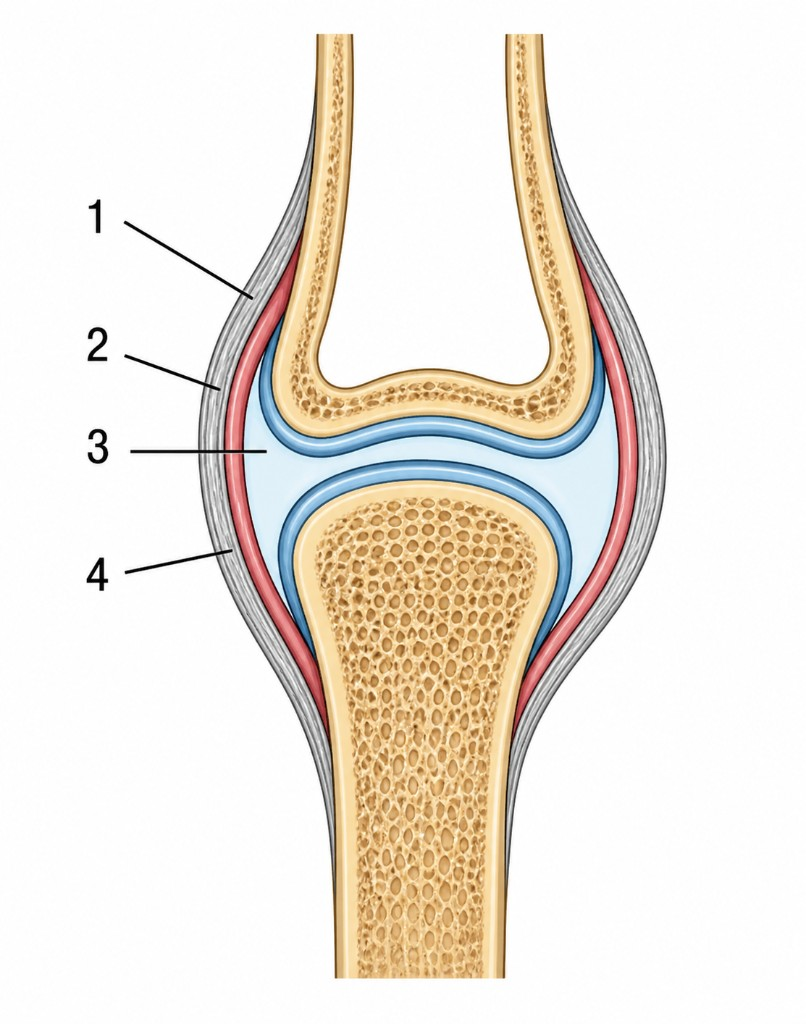
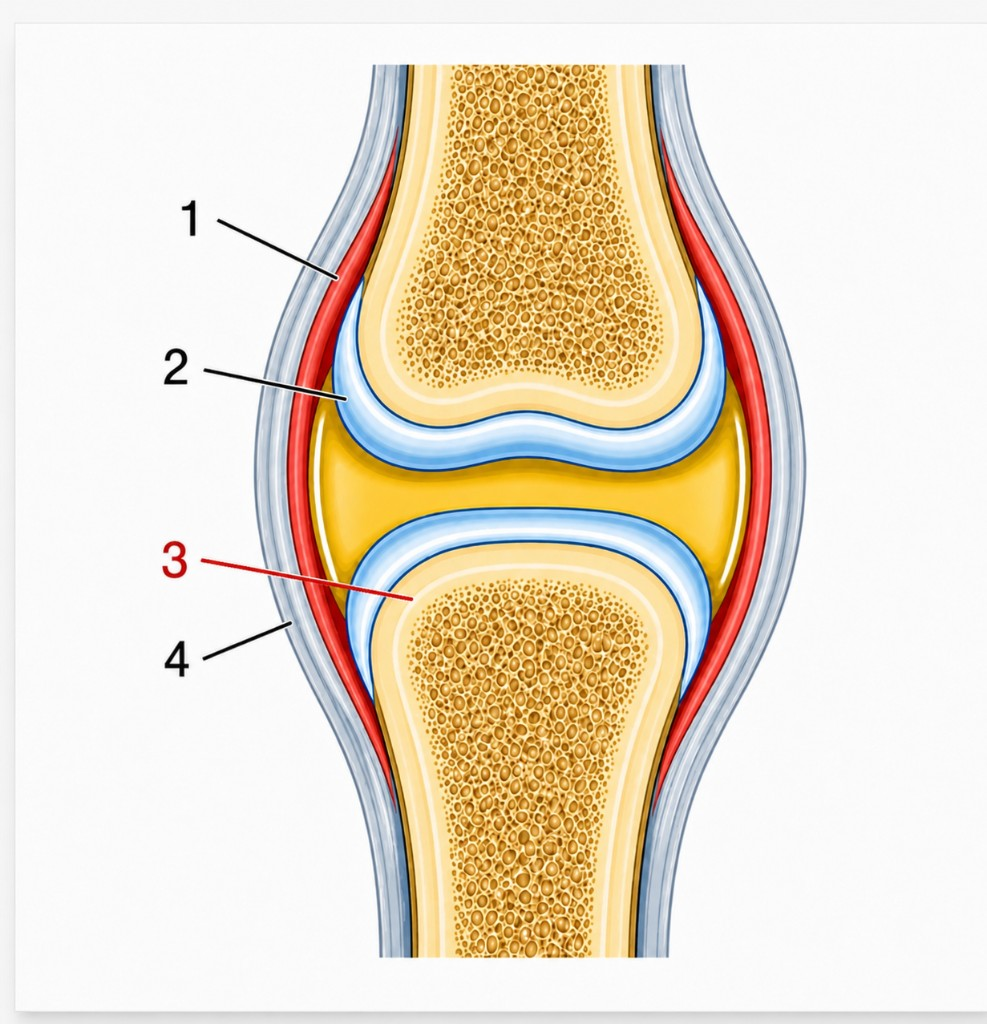
fix(biology v3 q14): replace joint diagram with new image (qid=58)
Problem
- Old PNG had numbering 1=membrane, 2=capsule, 3=fluid, 4=cartilage
- New PNG (user-provided): 1=membrane, 2=cartilage, 3=fluid, 4=capsule
- Numbers 2 and 4 swapped vs old version - text labels mismatched picture

Fix
- Replaced extracted/img/biology/q58-shema-sustava.png (178 KB)
- Updated qid=58 in biology-bank.js:
  - <img alt> text describes new layout
  - Body decoder line: '1 - synovial membrane, 2 - cartilage, 3 - fluid,
    4 - joint capsule (fibrous layer)'
  - options[2] and options[4] swapped to match (cartilage <-> capsule)
  - hint rewritten to reference correct numbers (2=cartilage feeding,
    4=capsule restraint)
- correct: '3' UNCHANGED (synovial fluid still provides gliding)
- Bumped biology-bank.js?v=22 -> ?v=23 per cache-busting.mdc rule

diff --git a/extracted/biology-bank.js b/extracted/biology-bank.js
@@ -855,15 +855,15 @@ window.BIOLOGY_QUESTIONS = [
 		id: 58,
 		type: 'single',
 		title: 'Структуры сустава по схеме',
-		body: '<p>На схеме изображено строение сустава, цифрами 1–4 обозначены его основные структуры. Какой цифрой на схеме отмечена структура, обеспечивающая <b>скольжение</b> сочленяющихся поверхностей и снижающая трение в суставе?</p><figure class="q-figure" role="group" aria-label="Схема разреза сустава с пронумерованными структурами 1–4"><img class="q-figure__img" src="/img/biology/q58-shema-sustava.png" alt="Сустав в продольном разрезе. Подписи: 1 — синовиальная оболочка (внутренний розовый слой капсулы), 2 — суставная капсула / фиброзный слой (наружная серая оболочка), 3 — синовиальная (суставная) жидкость в полости (голубое поле), 4 — суставной (гиалиновый) хрящ на головках костей." loading="lazy" decoding="async" /></figure><p>Расшифровка: 1 — синовиальная оболочка, 2 — суставная капсула (фиброзный слой), 3 — синовиальная (суставная) жидкость, 4 — суставной (гиалиновый) хрящ.</p>',
+		body: '<p>На схеме изображено строение сустава, цифрами 1–4 обозначены его основные структуры. Какой цифрой на схеме отмечена структура, обеспечивающая <b>скольжение</b> сочленяющихся поверхностей и снижающая трение в суставе?</p><figure class="q-figure" role="group" aria-label="Схема разреза сустава с пронумерованными структурами 1–4"><img class="q-figure__img" src="/img/biology/q58-shema-sustava.png" alt="Сустав в продольном разрезе. Подписи: 1 — синовиальная оболочка (внутренний красный слой капсулы), 2 — суставной (гиалиновый) хрящ на головках костей (голубой), 3 — синовиальная (суставная) жидкость в полости сустава (жёлтое поле между хрящами), 4 — суставная капсула / фиброзный слой (наружный серый слой)." loading="lazy" decoding="async" /></figure><p>Расшифровка: 1 — синовиальная оболочка, 2 — суставной (гиалиновый) хрящ, 3 — синовиальная (суставная) жидкость, 4 — суставная капсула (фиброзный слой).</p>',
 		options: [
 			{ id: '1', label: '1 — синовиальная оболочка' },
-			{ id: '2', label: '2 — суставная капсула' },
+			{ id: '2', label: '2 — суставной (гиалиновый) хрящ' },
 			{ id: '3', label: '3 — синовиальная (суставная) жидкость' },
-			{ id: '4', label: '4 — суставной (гиалиновый) хрящ' },
+			{ id: '4', label: '4 — суставная капсула (фиброзный слой)' },
 		],
 		correct: '3',
-		hint: 'Скольжение и снижение трения в суставе обеспечивает <b>синовиальная (суставная) жидкость</b> — вязкая прозрачная масса, заполняющая полость сустава. На схеме она показана голубым цветом и обозначена цифрой <b>3</b>. Жидкость не только смазывает поверхности, но и питает суставной хрящ (4), у которого собственных сосудов нет. Капсула (2) и её внутренняя синовиальная оболочка (1) удерживают сустав от вывиха и вырабатывают синовиальную жидкость, но сами трение не снижают; хрящ (4) амортизирует удары и распределяет нагрузку. Ответ: 3.',
+		hint: 'Скольжение и снижение трения в суставе обеспечивает <b>синовиальная (суставная) жидкость</b> — вязкая прозрачная масса, заполняющая полость сустава. На схеме она показана жёлтым полем между хрящами и обозначена цифрой <b>3</b>. Жидкость не только смазывает поверхности, но и питает суставной хрящ (2), у которого собственных сосудов нет. Суставная капсула (4) с её внутренней синовиальной оболочкой (1) удерживает сустав от вывиха и вырабатывает синовиальную жидкость, но сама трение не снижает; хрящ (2) амортизирует удары и распределяет нагрузку. Ответ: 3.',
 	},
 	{
 		id: 59,

diff --git a/extracted/full-test-biology/index.html b/extracted/full-test-biology/index.html
@@ -1572,7 +1572,7 @@
 		</main>
 
 		<script src="/exam-config.js"></script>
-		<script src="/biology-bank.js?v=22"></script>
+		<script src="/biology-bank.js?v=23"></script>
 		<script src="/biology-variants.js?v=4"></script>
 		<script src="/iqmo-sync.js"></script>
 		<script src="/iqmo-nav.js"></script>
